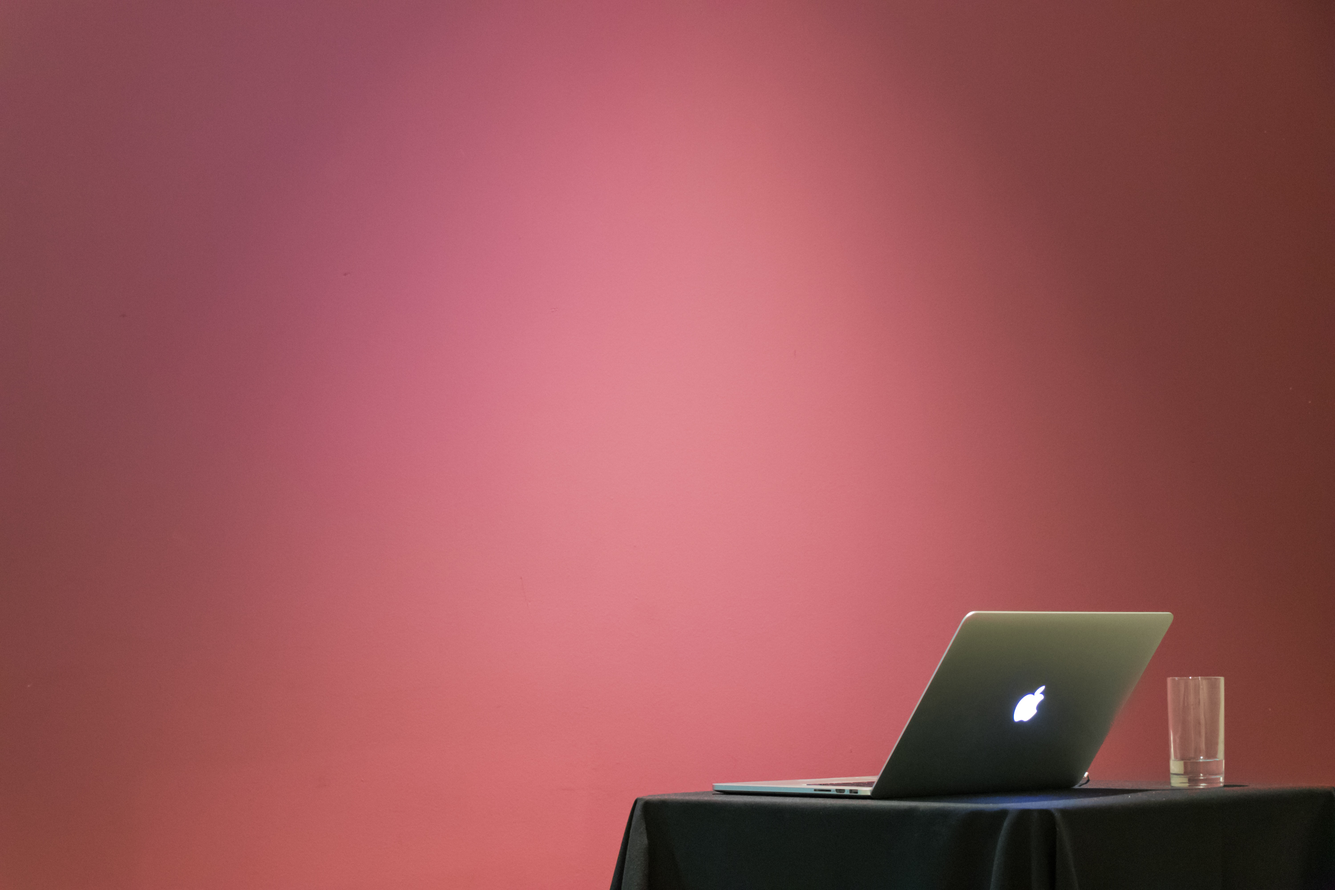
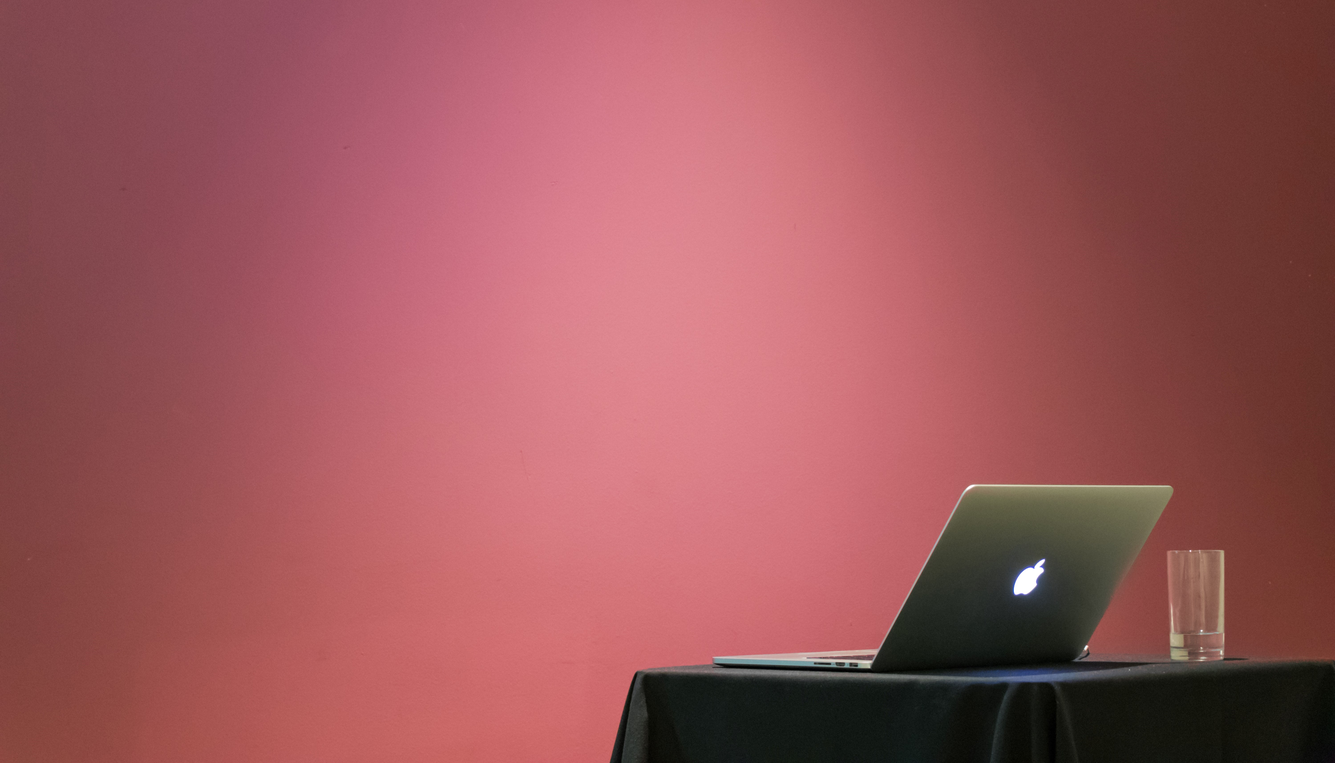
Modified OverallSentiment.js

Changed region(s): [[0.4675, 0.6237, 1.0, 0.9356], [0.374, 0.0, 0.6857, 0.1247]]

diff --git a/src/components/OverallSentiment/OverallSentiment.js b/src/components/OverallSentiment/OverallSentiment.js
@@ -1,32 +1,44 @@
-import React from 'react';
-import Container from 'react-bootstrap/Container';
-import Row from 'react-bootstrap/Row';
-import Col from 'react-bootstrap/Col';
-import  Footer  from '../NavigationBar/Footer';
+import React from "react";
+import Container from "react-bootstrap/Container";
+import Row from "react-bootstrap/Row";
+import Col from "react-bootstrap/Col";
+import Footer from "../NavigationBar/Footer";
 
-function OverallSentiment(){
-    return(
-        <Container className='mt-5 sentiment_box'>
-            <Row>
-                <Col><Container>App Logo</Container></Col>
-                <Col>
-                    <Row><h1>App Name</h1> </Row>
-                    <Row><h5>Author Name</h5></Row>
-                </Col>
-            </Row>
-            <Row>
-                <Col>
-                    <Row>3 Stars</Row>
-                    <Row>3M Reviews</Row>
-                    <Row>50.0MB</Row>
-                    <Row>100+ Downloads</Row>
-                </Col>
-                <Col><h1>5.8</h1></Col>
-            </Row>
-            <Footer/>
-
-            
-        </Container>
-    );
+function OverallSentiment() {
+  return (
+    <div className="container-fluid">
+      <div class="bgimg-16">
+        <div class="sentimentBox">
+          <Row>
+            <Col>
+              <Container>App Logo</Container>
+            </Col>
+            <Col>
+              <Row>
+                <h3 style={{fontSize:"2vw"}}>App Name</h3>{" "}
+              </Row>
+              <Row>
+                <h4>Author Name</h4>
+              </Row>
+            </Col>
+          </Row>
+          <Row>
+              <div class="sentimentInfo">
+            <Col>
+              <Row>3 Stars</Row>
+              <Row>3M Reviews</Row>
+              <Row>50.0MB</Row>
+              <Row>100+ Downloads</Row>
+            </Col>
+            </div>
+            <Col>
+              <h1>5.8</h1>
+            </Col>
+          </Row>
+        </div>
+      </div>
+      <Footer />
+    </div>
+  );
 }
 export default OverallSentiment;

diff --git a/src/App.css b/src/App.css
@@ -155,7 +155,7 @@ html {
 
 .descrip-12 {
   color: #434950;
-  background-image: url("/images/laptop6.jpg");
+  background-image: url("/images/laptop1.jpg");
   background-attachment: fixed;
   background-position: center;
   background-repeat: no-repeat;
@@ -212,7 +212,8 @@ html {
 .bgimg-12,
 .bgimg-13,
 .bgimg-14,
-.bgimg-15  {
+.bgimg-15,
+.bgimg-16  {
   position: relative;
   background-attachment: fixed;
   background-position: center;
@@ -247,7 +248,7 @@ html {
 }
 .bgimg-6 {
   min-height: 800px;
-  background-image: url("/images/laptop1.jpg");
+  background-image: url("/images/laptop6.jpg");
 }
 .bgimg-7 {
   min-height: 800px;
@@ -283,7 +284,11 @@ html {
 }
 .bgimg-15 {
   min-height: 800px;
-  background-image: url("/images/laptop6.jpg");
+  background-image: url("/images/laptop1.jpg");
+}
+.bgimg-16 {
+  min-height: 800px;
+  background-image: url("/images/laptop7.jpg");
 }
 /* Float four columns side by side */
 .columnCard {
@@ -626,7 +631,7 @@ video {
   display: block;
 }
 .MenuBoxPage {
-  /* width: 60%; */
+  width: 50%;
   margin-top: 5%;
   float: left;
 }
@@ -641,14 +646,15 @@ video {
 .menuIntro {
   margin: auto;
   float: left;
-  padding: 50px;
   color: rgb(88, 87, 87);
-  font-size: 2.3vh;
+  font-size: 3vh;
+  text-align: center;
+  padding: 20px;
 }
 .p-4 {
   color: rgb(88, 87, 87);
-  font-size: 12px;
-  font-weight: 800;
+  font-size: 2.5vh;
+  font-weight: 700;
   text-transform: uppercase;
   letter-spacing: 3px;
   text-decoration: none;
@@ -894,5 +900,14 @@ video {
 /* =======================BUG FIX=========== */
 .center-content{
   margin:0 auto;
-  width:50%;
+  width:60%;
+}
+.sentimentBox{
+  padding-top: 15%;
+  padding-left: 5%;
+  font-family: "Lato" sans-serif;
+}
+.sentimentInfo{
+  font-size: 20px;
+  
 }

diff --git a/src/components/Menu/MenuBox.js b/src/components/Menu/MenuBox.js
@@ -12,7 +12,7 @@ function MenuBox() {
               textAlign: "center",
               fontWeight: 900,
               float: "left",
-              padding: 50,
+              padding: 20,
               fontSize:'2vw',
               marginTop: "12%",
             }}
@@ -32,7 +32,7 @@ function MenuBox() {
             <div class="row">
             <div class="col-lg-4 mb-2">
                 <Link to="/bugfix">
-                  <div className="card p-4">Bug Fixes</div>
+                  <div className="card p-4">Bug <br></br>Fixes</div>
                 </Link>
               </div>
               <div class="col-lg-4 mb-2">
